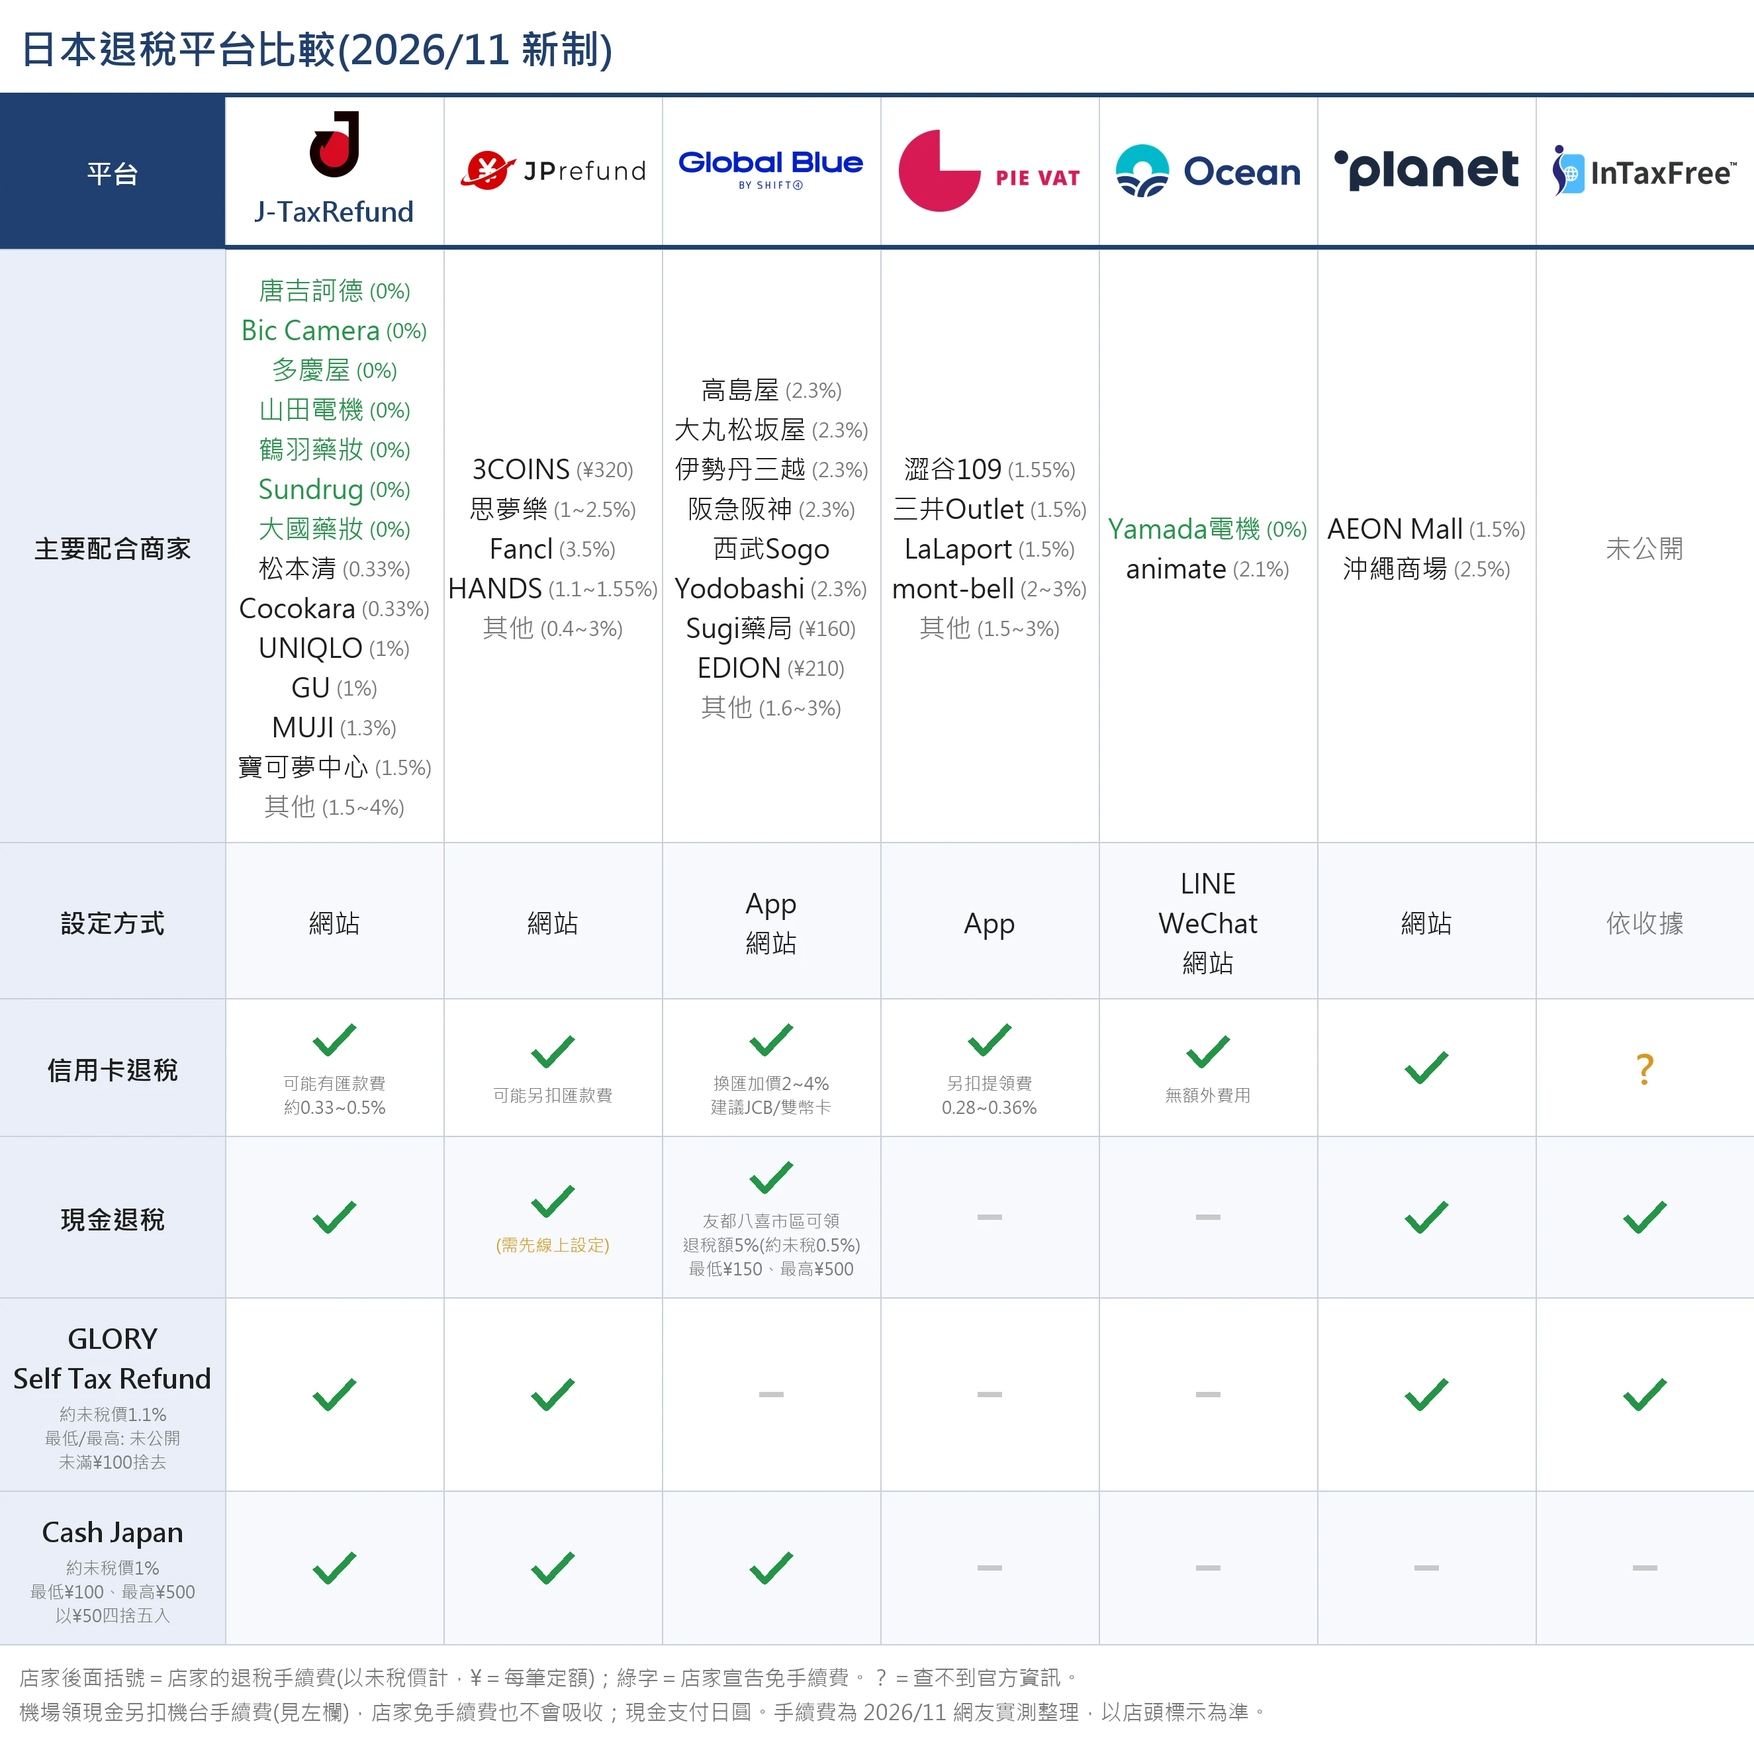
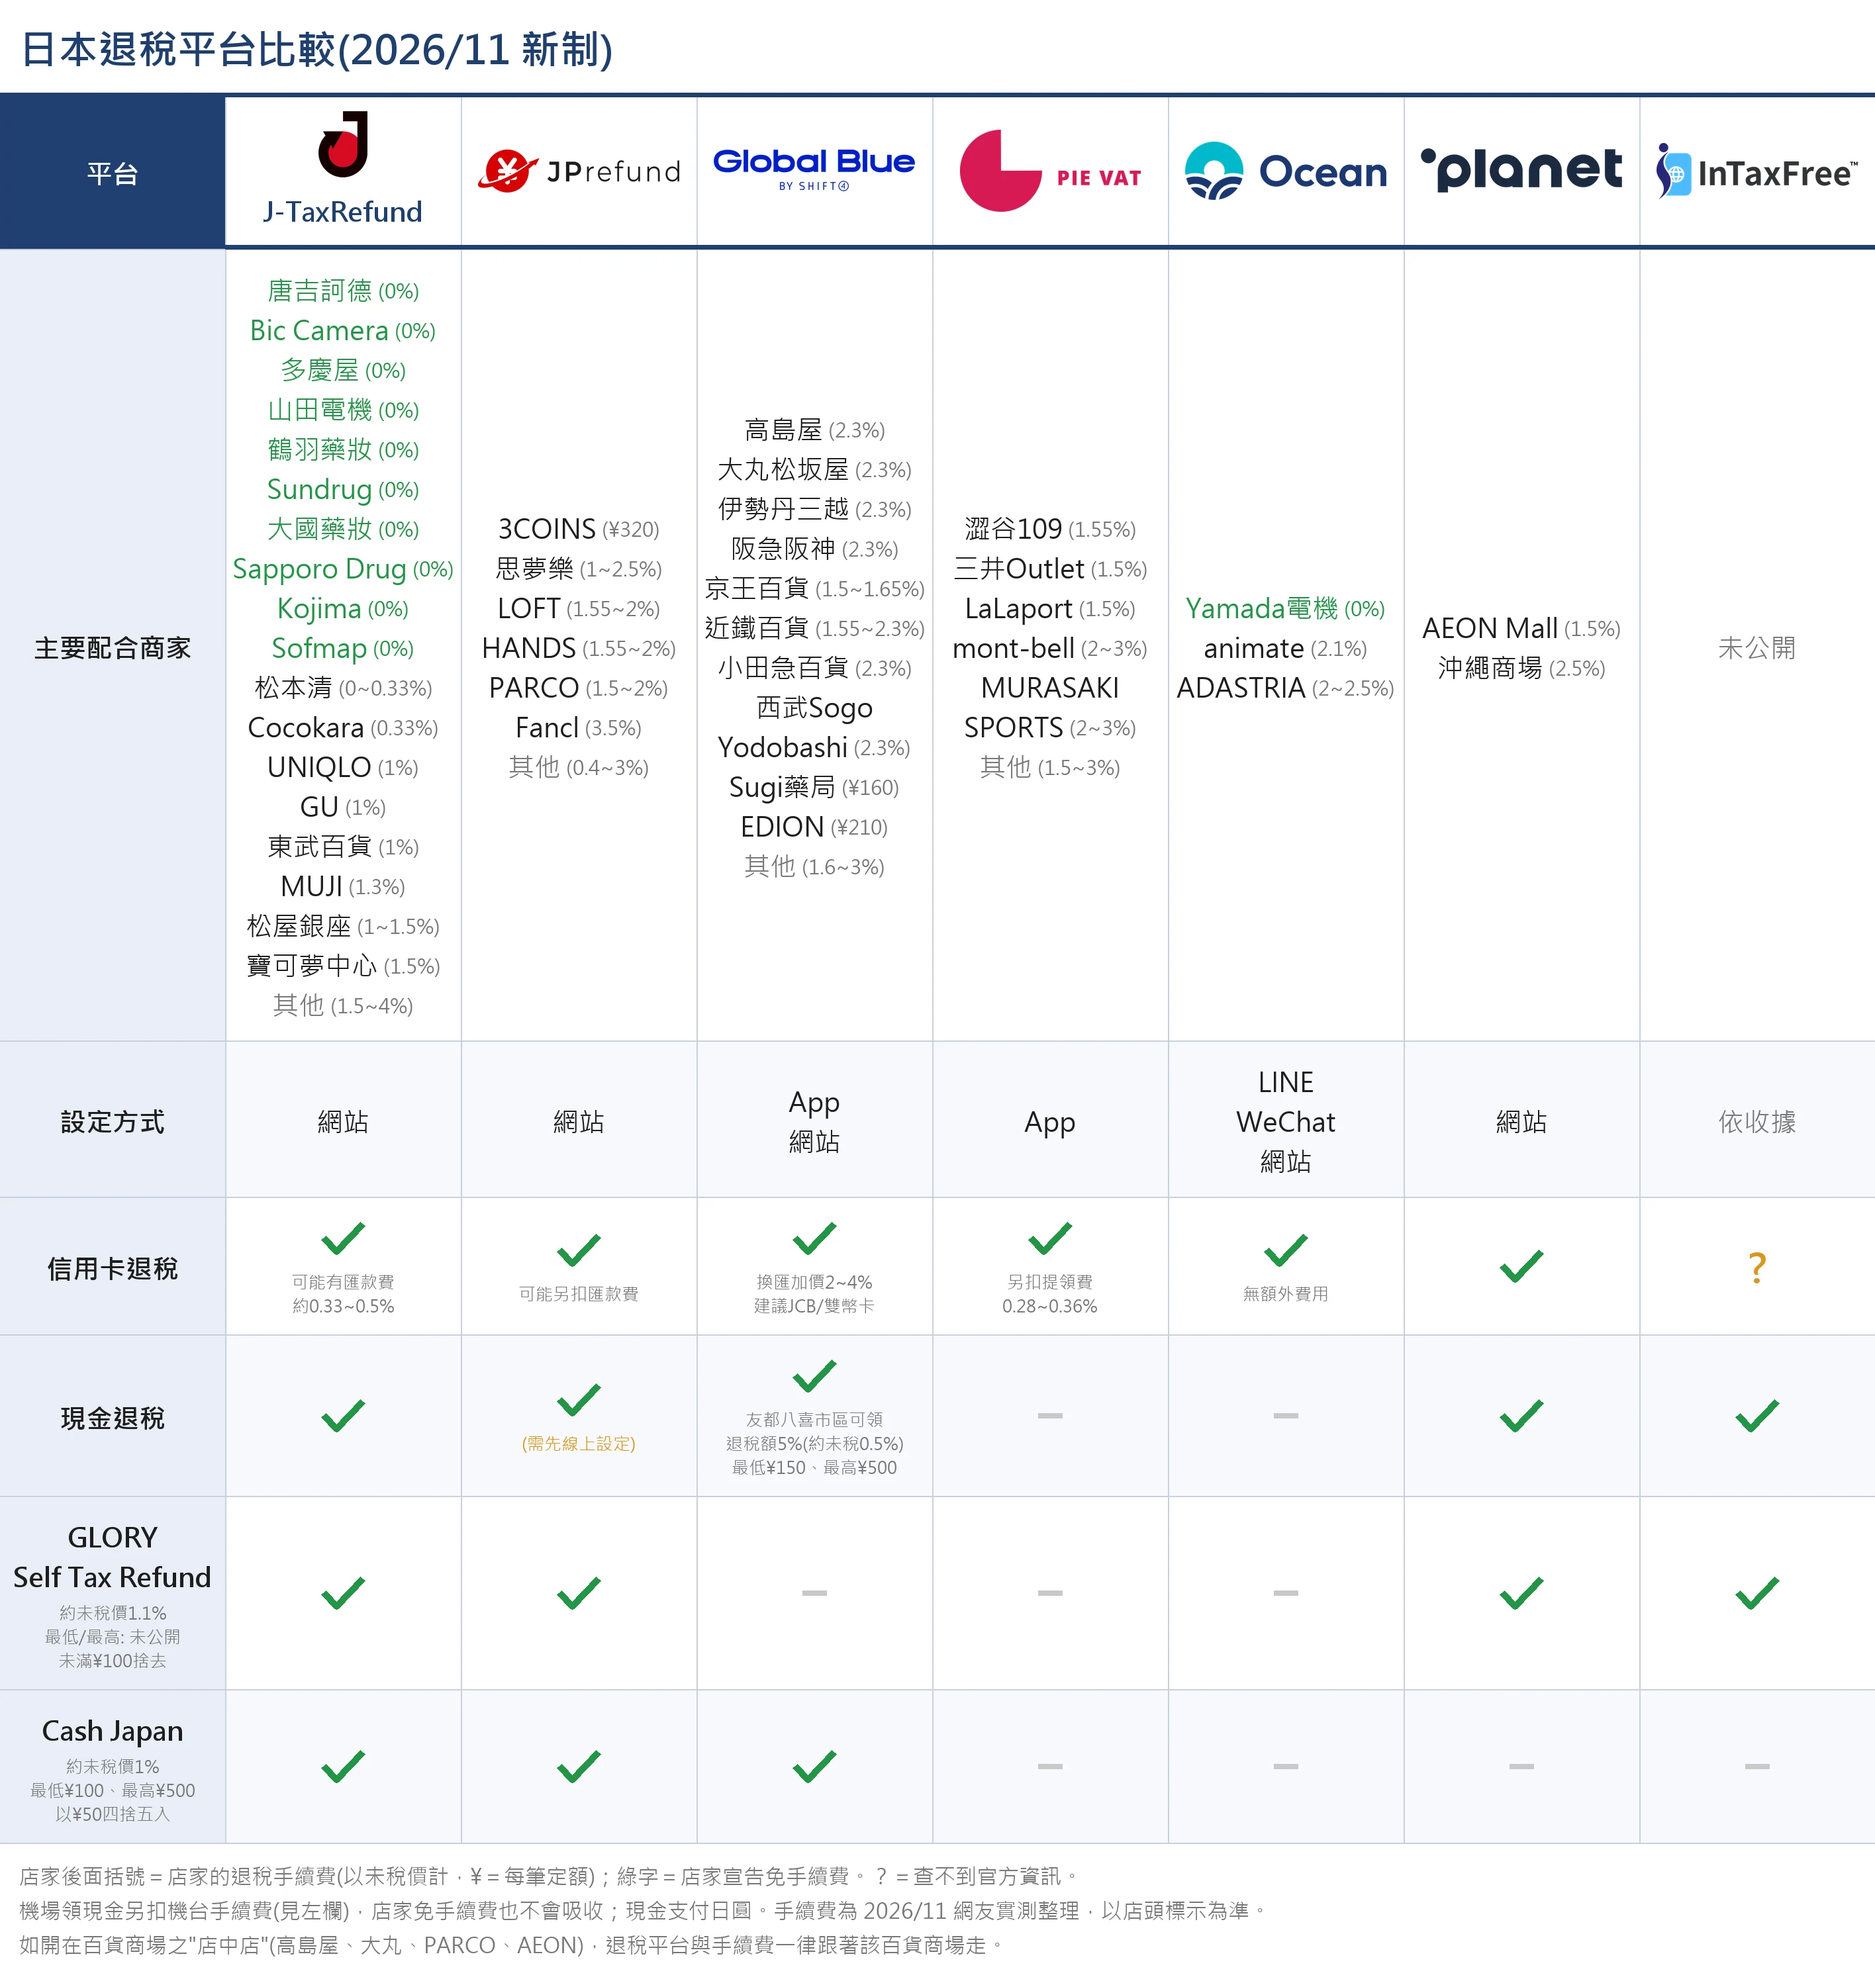
比較表補 Sapporo Drug、LOFT、PARCO、京王/近鐵/小田急、MURASAKI SPORTS、ADASTRIA 等店家與店中店註腳；SW 升 v13

diff --git a/sw.js b/sw.js
@@ -6,7 +6,7 @@
 //
 // 這支檔案由 scripts/build_sw.py 產生，不要直接改；新增圖片後重跑它。
 
-const CACHE = 'japan2027-v11';
+const CACHE = 'japan2027-v13';
 
 // 安裝時就先抓好的檔案（第一次開頁、有網路時完成）
 const PRECACHE = [

diff --git a/scripts/make_refund_table.py b/scripts/make_refund_table.py
@@ -34,21 +34,25 @@ FONT_B = 'C:/Windows/Fonts/msjhbd.ttc'
 # 打勾欄位：True=有、False=沒有、None=查不到（畫問號）
 # 商家寫法「名稱|手續費」：手續費(店家的退稅手續費，以未稅價計；¥ 是每筆定額)畫成灰小字接在名稱後面
 #   名稱結尾加 * ＝已宣告免退稅手續費（畫成綠字，* 不會印出來）；機場領現金的手續費另計
+#   名稱太長可用 \n 斷行，手續費接在最後一行後面
 #   名稱是「其他」＝其餘合作店家的手續費範圍，整行灰字當補述
 # 手續費來源：林氏璧 2026/11/15 整理(linshibi.com/?p=53059)、PIE VAT 官方說明(help.pievat.com)
 PLATFORMS = [
     # 名稱, 主要配合商家, 設定方式, 信用卡, 現金, GLORY, Cash Japan
     ('J-TaxRefund', ['唐吉訶德*|0%', 'Bic Camera*|0%', '多慶屋*|0%', '山田電機*|0%', '鶴羽藥妝*|0%',
-                     'Sundrug*|0%', '大國藥妝*|0%', '松本清|0.33%', 'Cocokara|0.33%', 'UNIQLO|1%', 'GU|1%',
-                     'MUJI|1.3%', '寶可夢中心|1.5%', '其他|1.5~4%'],
+                     'Sundrug*|0%', '大國藥妝*|0%', 'Sapporo Drug*|0%', 'Kojima*|0%', 'Sofmap*|0%',
+                     '松本清|0~0.33%', 'Cocokara|0.33%', 'UNIQLO|1%', 'GU|1%', '東武百貨|1%',
+                     'MUJI|1.3%', '松屋銀座|1~1.5%', '寶可夢中心|1.5%', '其他|1.5~4%'],
      ['網站'], True, True, True, True),
-    ('JPrefund', ['3COINS|¥320', '思夢樂|1~2.5%', 'Fancl|3.5%', 'HANDS|1.1~1.55%', '其他|0.4~3%'], ['網站'], True, True, True, True),
-    ('Global Blue', ['高島屋|2.3%', '大丸松坂屋|2.3%', '伊勢丹三越|2.3%', '阪急阪神|2.3%', '西武Sogo',
+    ('JPrefund', ['3COINS|¥320', '思夢樂|1~2.5%', 'LOFT|1.55~2%', 'HANDS|1.55~2%', 'PARCO|1.5~2%',
+                  'Fancl|3.5%', '其他|0.4~3%'], ['網站'], True, True, True, True),
+    ('Global Blue', ['高島屋|2.3%', '大丸松坂屋|2.3%', '伊勢丹三越|2.3%', '阪急阪神|2.3%', '京王百貨|1.5~1.65%',
+                     '近鐵百貨|1.55~2.3%', '小田急百貨|2.3%', '西武Sogo',
                      'Yodobashi|2.3%', 'Sugi藥局|¥160', 'EDION|¥210', '其他|1.6~3%'],
      ['App', '網站'], True, True, False, True),
-    ('PIE VAT', ['澀谷109|1.55%', '三井Outlet|1.5%', 'LaLaport|1.5%', 'mont-bell|2~3%', '其他|1.5~3%'],
+    ('PIE VAT', ['澀谷109|1.55%', '三井Outlet|1.5%', 'LaLaport|1.5%', 'mont-bell|2~3%', 'MURASAKI\nSPORTS|2~3%', '其他|1.5~3%'],
      ['App'], True, False, False, False),
-    ('Ocean\nTax Refund', ['Yamada電機*|0%', 'animate|2.1%'], ['LINE', 'WeChat', '網站'], True, False, False, False),
+    ('Ocean\nTax Refund', ['Yamada電機*|0%', 'animate|2.1%', 'ADASTRIA|2~2.5%'], ['LINE', 'WeChat', '網站'], True, False, False, False),
     ('Planet', ['AEON Mall|1.5%', '沖繩商場|2.5%'], ['網站'], True, True, True, False),
     ('IntaSect', ['未公開'], ['依收據'], None, True, True, False),
 ]
@@ -75,7 +79,7 @@ ROW_NOTES = {
 
 S = 2                      # 整張放大倍率（手機點開放大仍清楚）
 HEAD_W = 170 * S           # 左側列名欄寬
-COL_W = 165 * S
+COL_W = 178 * S
 LINE_H = 30 * S
 PAD = 14 * S
 
@@ -125,7 +129,7 @@ def row_height(r):
         n = max([nlines(x[0]) for x in notes if x] or [0])
         cell = MARK_BOX + (n * SMALL_LH + 6 * S if n else 0) + 2 * PAD
         return max(64 * S, cell, head)
-    n = max(len(lines_of(r, ci)) for ci in range(len(PLATFORMS)))
+    n = max(sum(nlines(it.partition('|')[0]) for it in lines_of(r, ci)) for ci in range(len(PLATFORMS)))
     return max(n * LINE_H + 2 * PAD, 64 * S, head)
 
 
@@ -169,7 +173,7 @@ def paste_logo(lg, cx, cy, max_w, max_h):
     k = min(max_w / lg.width, max_h / lg.height)
     lg = lg.resize((max(1, round(lg.width * k)), max(1, round(lg.height * k))), Image.LANCZOS)
     im.paste(lg, (round(cx - lg.width / 2), round(cy - lg.height / 2)), lg)
-NOTE_H = 80 * S
+NOTE_H = 106 * S
 W = HEAD_W + COL_W * len(PLATFORMS)
 H = TITLE_H + HEADER_H + sum(row_height(r) for r in range(len(ROWS))) + NOTE_H
 
@@ -202,6 +206,14 @@ def small_lines(text, cx, y, fill):
 def merchant_lines(box, items):
     """主要配合商家：名稱(綠字＝免手續費) + 灰色小字手續費；「其他」整行灰字。"""
     x0, y0, x1, y1 = box
+    # 名稱有 \n 的拆成多行：前面幾行只有名稱，手續費接在最後一行
+    flat = []
+    for it in items:
+        name, bar, fee = it.partition('|')
+        star = '*' if name.endswith('*') else ''
+        parts = name.rstrip('*').split('\n')
+        flat += [x + star for x in parts[:-1]] + [parts[-1] + star + bar + fee]
+    items = flat
     y = (y0 + y1 - len(items) * LINE_H) / 2
     gap = 4 * S
     for it in items:
@@ -305,7 +317,8 @@ d.rectangle([HEAD_W, TITLE_H + HEADER_H - 3 * S, W, TITLE_H + HEADER_H], fill=C_
 
 # 註腳
 notes = ['店家後面括號＝店家的退稅手續費(以未稅價計，¥＝每筆定額)；綠字＝店家宣告免手續費。？＝查不到官方資訊。',
-         '機場領現金另扣機台手續費(見左欄)，店家免手續費也不會吸收；現金支付日圓。手續費為 2026/11 網友實測整理，以店頭標示為準。']
+         '機場領現金另扣機台手續費(見左欄)，店家免手續費也不會吸收；現金支付日圓。手續費為 2026/11 網友實測整理，以店頭標示為準。',
+         '如開在百貨商場之"店中店"(高島屋、大丸、PARCO、AEON)，退稅平台與手續費一律跟著該百貨商場走。']
 ny = y + 14 * S
 for n in notes:
     d.text((PAD, ny), n, font=f_note, fill=C_SUB)

diff --git a/scripts/build_sw.py b/scripts/build_sw.py
@@ -8,7 +8,7 @@ import glob
 import io
 import os
 
-CACHE_VERSION = 'japan2027-v12'
+CACHE_VERSION = 'japan2027-v13'
 ROOT = os.path.dirname(os.path.dirname(os.path.abspath(__file__)))
 
 CORE = ['./', 'index.html', 'private.enc', 'manifest.webmanifest',

diff --git a/變動紀錄.md b/變動紀錄.md
@@ -1,6 +1,19 @@
 
 # 變動紀錄
 
+## Modify - 2026/11/19 17:05:00
+
+**比較表補更多店家、店中店註腳**
+
+- `scripts/make_refund_table.py` 主要配合商家：
+  - J-TaxRefund 加 Sapporo Drug、Kojima、Sofmap(皆 0%，綠字)、東武百貨 1%、松屋銀座 1~1.5%；松本清改 0~0.33%。
+  - JPrefund 加 LOFT 1.55~2%、PARCO 1.5~2%；HANDS 改 1.55~2%。
+  - Global Blue 加京王百貨 1.5~1.65%、近鐵百貨 1.55~2.3%、小田急百貨 2.3%。
+  - PIE VAT 加 MURASAKI SPORTS 2~3%；Ocean 加 ADASTRIA 2~2.5%。
+- 店名可用 `\n` 斷行(手續費接在最後一行)，MURASAKI SPORTS 分兩行；欄寬 165→178(×S)，圖寬變 2832。
+- 註腳加第三行：開在百貨商場的「店中店」(高島屋、大丸、PARCO、AEON)，退稅平台與手續費跟著百貨商場走；NOTE_H 80→106。
+- `scripts/build_sw.py`：CACHE_VERSION 升 `japan2027-v13`，重新產生 `sw.js`。
+
 ## Modify - 2026/11/19 16:39:19
 
 **比較表 JPrefund 加 HANDS**
